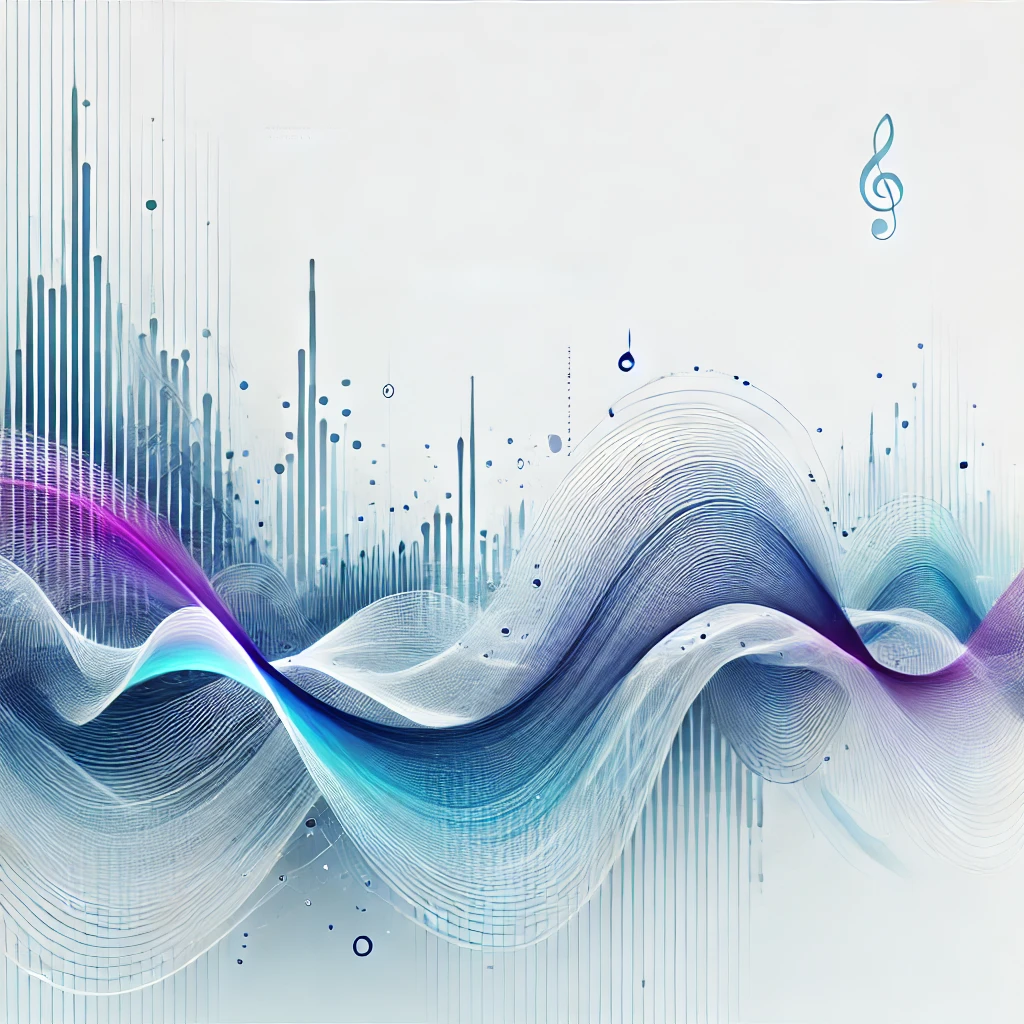
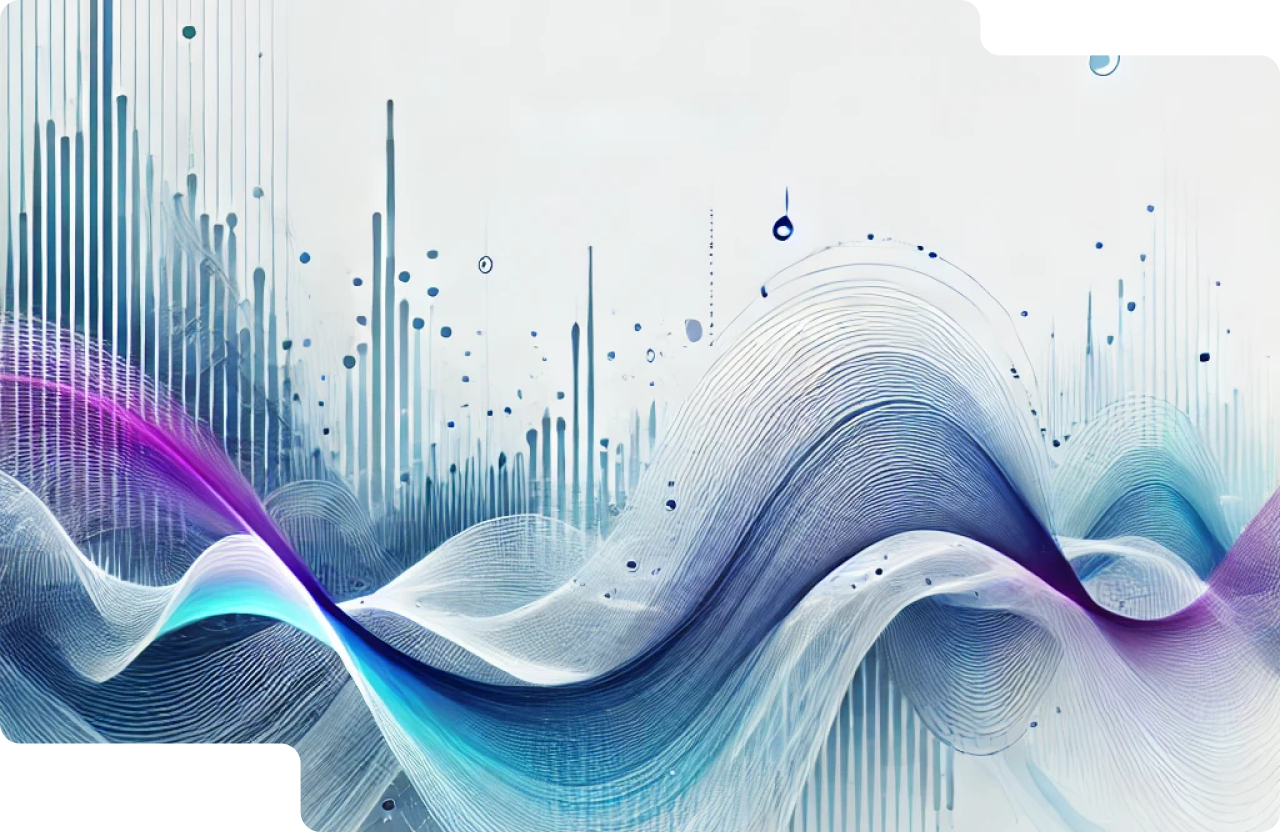
background light et dark

diff --git a/styles/page.module.scss b/styles/page.module.scss
@@ -29,8 +29,8 @@
     display: flex;
     justify-content: center;
     align-items: center;
-    background-image: url(../public/images/background/dark_background.png);
-    background-size: cover;
+    // background-image: url(../public/images/background/dark_background.png);
+    background-size: 100% 100%;
     background-repeat: no-repeat;
     border-radius: var(--border-radius);
     transition:
@@ -69,7 +69,7 @@
 
   .custom_corner_left,
   .custom_corner_right {
-    background: var(--black-color);
+    // background: var(--black-color);
   }
 }
 
@@ -78,7 +78,7 @@
 
   .custom_corner_left,
   .custom_corner_right {
-    background: var(--white-color);
+    // background: var(--white-color);
   }
 
   .app_wrapper {

diff --git a/src/app/page.js b/src/app/page.js
@@ -343,8 +343,8 @@ const Home = () => {
         <>
           {/* Page Content */}
           <div className={style.app_wrapper}>
-            <div className={style.custom_corner_right}></div>
-            <div className={style.custom_corner_left}></div>
+            {/* <div className={style.custom_corner_right}></div>
+            <div className={style.custom_corner_left}></div> */}
             {/* Navigation Bar */}
             <NavBar
               darkMode={darkMode}
